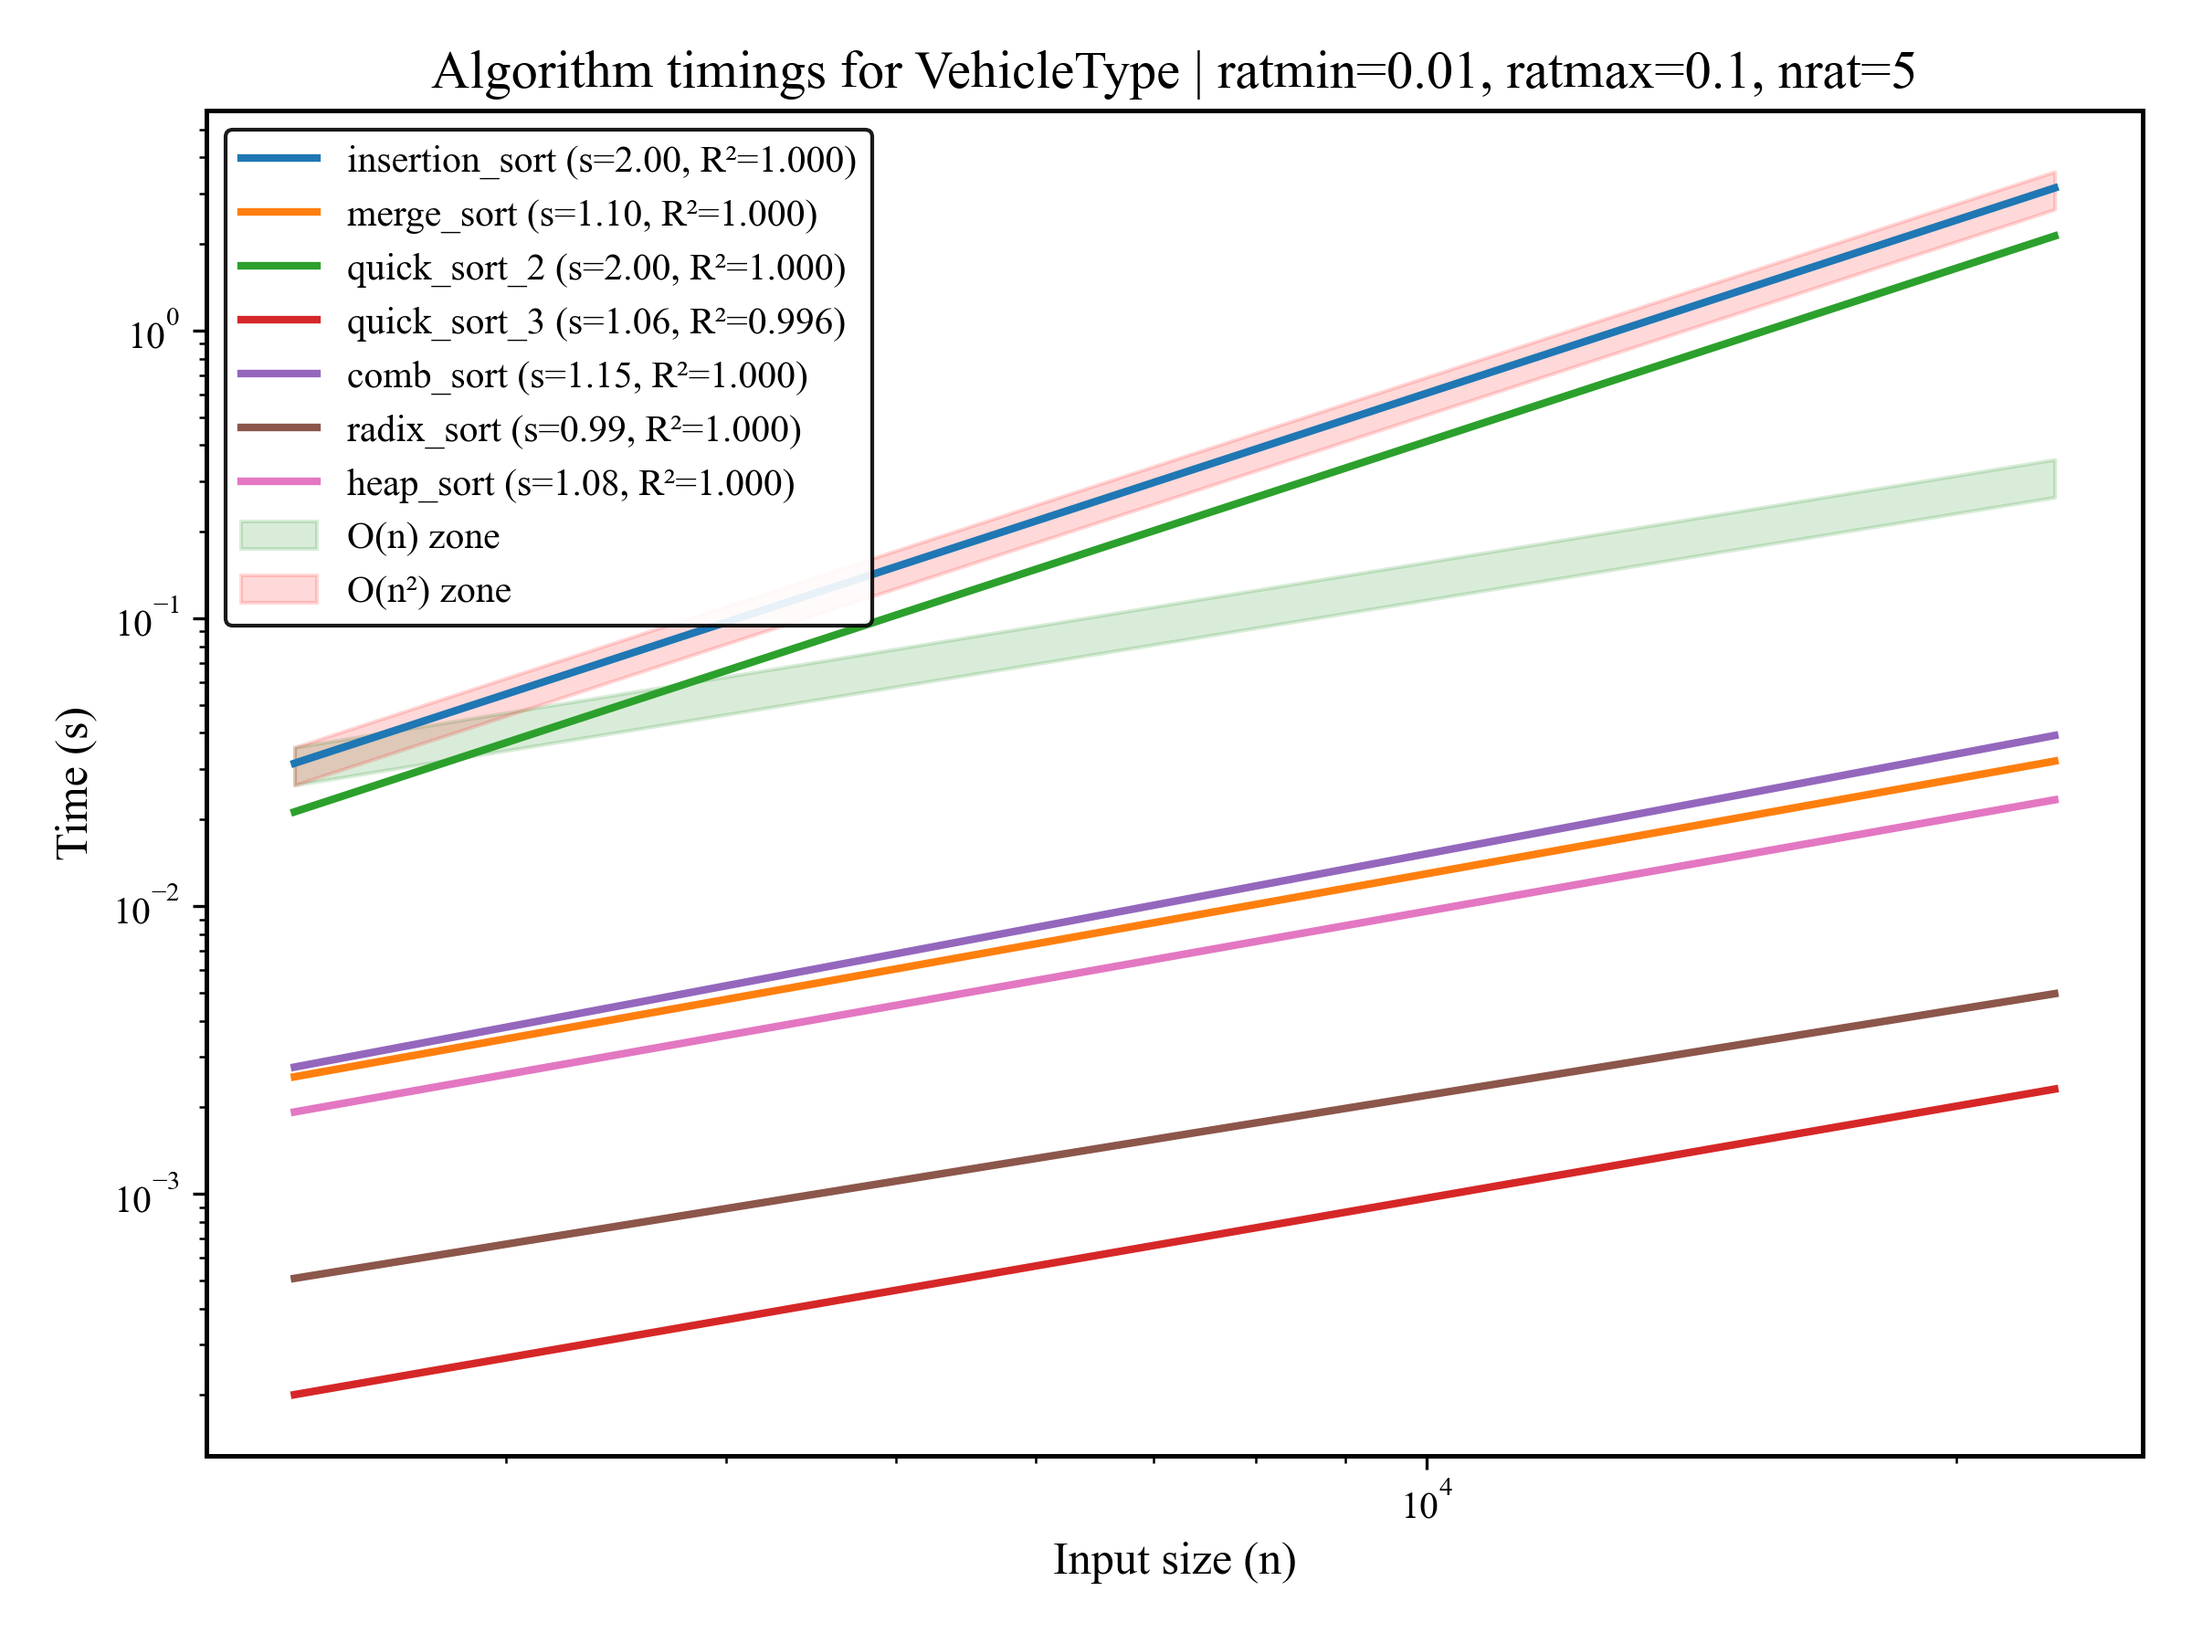
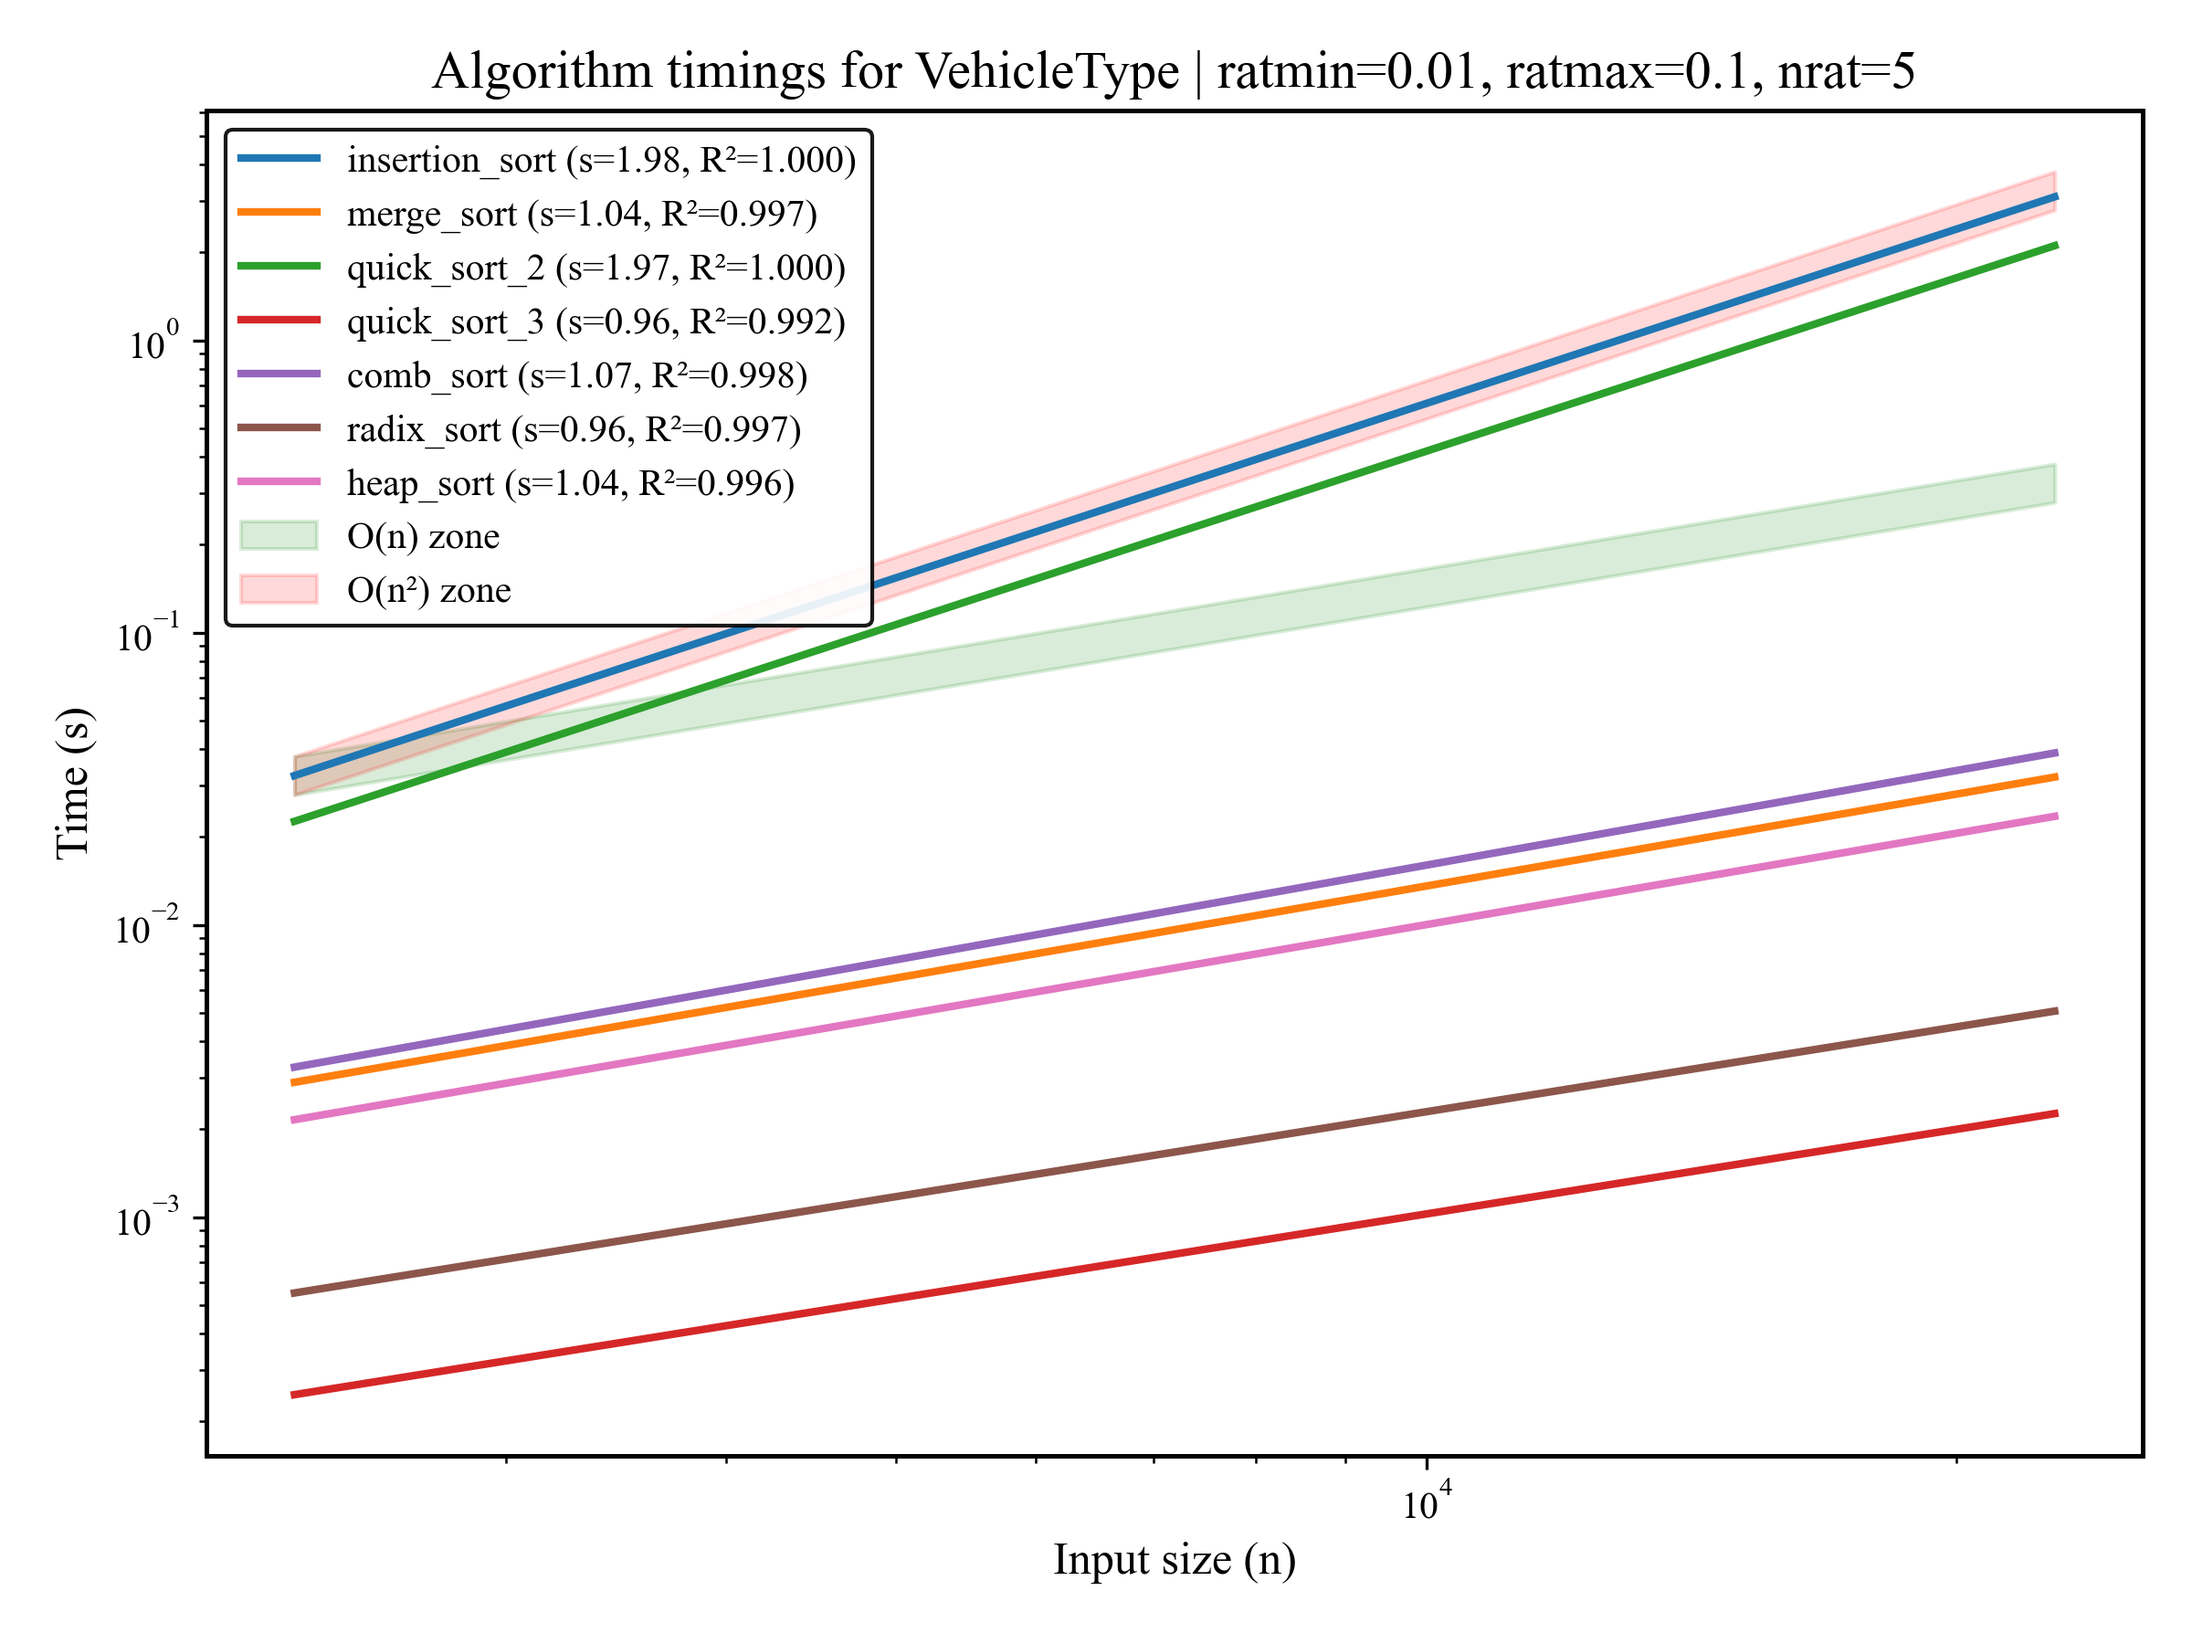
add data cata

diff --git a/sort_tester/Benchmark_runner.py b/sort_tester/Benchmark_runner.py
@@ -14,6 +14,9 @@ class BenchmarkRunner:
         self,
         csv_path: str,
         col_name: str,
+        col_type: Optional[str] = None,
+        category_order: Optional[List[str]] = None,
+        code_suffix_order: Optional[List[str]] = None,
         algos: Optional[str] = None,
         ratios: Optional[str] = None,
         ratmin: float = 0.01,
@@ -32,6 +35,9 @@ class BenchmarkRunner:
     ):
         self.csv_path = csv_path
         self.col_name = col_name
+        self.col_type = (col_type or "").strip().lower() or None
+        self.category_order = category_order
+        self.code_suffix_order = code_suffix_order
         # preserve inputs for title/folder info
         self._ratmin_input = ratmin
         self._ratmax_input = ratmax
@@ -111,11 +117,72 @@ class BenchmarkRunner:
         if self.col_name not in self.data.columns:
             raise ValueError(f"Column '{self.col_name}' not found in CSV. Available columns: {self.data.columns.tolist()}")
 
-        series = self.data[self.col_name].dropna()
-        if not pd.api.types.is_numeric_dtype(series):
-            series = pd.to_numeric(series, errors="coerce").dropna()
-        cleaned = self.data.loc[series.index].copy()
-        cleaned[self.col_name] = series.values
+        series_raw = self.data[self.col_name]
+        # Manual typed preprocessing
+        if self.col_type in {"time", "datetime", "timestamp", "date"}:
+            dt = pd.to_datetime(series_raw, errors="coerce")
+            mask = dt.notna()
+            if mask.sum() == 0:
+                raise ValueError(f"Column '{self.col_name}' set as {self.col_type} but cannot be parsed as datetime.")
+            series = dt[mask].view("int64")
+            cleaned = self.data.loc[mask].copy()
+            cleaned[self.col_name] = series.values
+            print(f"Column '{self.col_name}' parsed as datetime -> int64 ns ({mask.sum()} rows).")
+        elif self.col_type in {"category", "categorical"}:
+            ser = series_raw.astype("string")
+            if self.category_order:
+                cat = pd.Categorical(ser, categories=self.category_order, ordered=True)
+            else:
+                cat = pd.Categorical(ser)
+            codes = pd.Series(cat.codes, index=ser.index)
+            mask = codes >= 0
+            if mask.sum() == 0:
+                raise ValueError(f"Column '{self.col_name}' set as category but no valid categories found.")
+            cleaned = self.data.loc[mask].copy()
+            cleaned[self.col_name] = codes.loc[mask].values
+            series = cleaned[self.col_name]
+            print(f"Column '{self.col_name}' parsed as categorical codes ({mask.sum()} rows).")
+        elif self.col_type in {"code", "gantry", "alphanum"}:
+            import re
+            pattern = re.compile(r'^\s*(\d+)([A-Za-z])(\d+)([A-Za-z])\s*$')
+            suffix_rank = {}
+            if self.code_suffix_order:
+                for i, k in enumerate(self.code_suffix_order):
+                    suffix_rank[str(k).upper()] = i
+            else:
+                suffix_rank = {"N": 0, "S": 1}
+            def encode_one(x):
+                if not isinstance(x, str):
+                    try:
+                        x = str(x)
+                    except Exception:
+                        return None
+                m = pattern.match(x)
+                if not m:
+                    return None
+                g1, g2, g3, g4 = m.groups()
+                try:
+                    p1 = int(g1)
+                    p2 = ord(g2.upper()) - ord('A')
+                    p3 = int(g3)
+                    p4 = suffix_rank.get(g4.upper(), ord(g4.upper()) - ord('A') + 100)
+                    return (p1, p2, p3, p4)
+                except Exception:
+                    return None
+            tuples = series_raw.map(encode_one)
+            mask = tuples.notna()
+            if mask.sum() == 0:
+                raise ValueError(f"Column '{self.col_name}' set as code but values do not match expected pattern.")
+            cleaned = self.data.loc[mask].copy()
+            cleaned[self.col_name] = tuples.loc[mask].tolist()
+            series = cleaned[self.col_name]
+            print(f"Column '{self.col_name}' parsed as code tuples ({mask.sum()} rows).")
+        else:
+            series = series_raw.dropna()
+            if not pd.api.types.is_numeric_dtype(series):
+                series = pd.to_numeric(series, errors="coerce").dropna()
+            cleaned = self.data.loc[series.index].copy()
+            cleaned[self.col_name] = series.values
 
         self.algos = self._choose_algorithms(self.algos_arg, series)
 

diff --git a/main/runner.py b/main/runner.py
@@ -21,7 +21,9 @@ if __name__ == "__main__":
         "TripInformation",
     ]
 
-    col_name = "VehicleType"
+    col_name = "GantryID_O"
+    # None / "time" / "category" / "code"
+    col_type = "code"
     ratmin = 0.01
     ratmax = 0.1
     nrat = 5
@@ -31,6 +33,7 @@ if __name__ == "__main__":
     runner = BenchmarkRunner(
         csv_path="data/TDCS_M06A_20231204_080000.csv",
         col_name=col_name,
+        col_type=col_type,
         algos=None,
         ratios=None,
         ratmin=ratmin,
